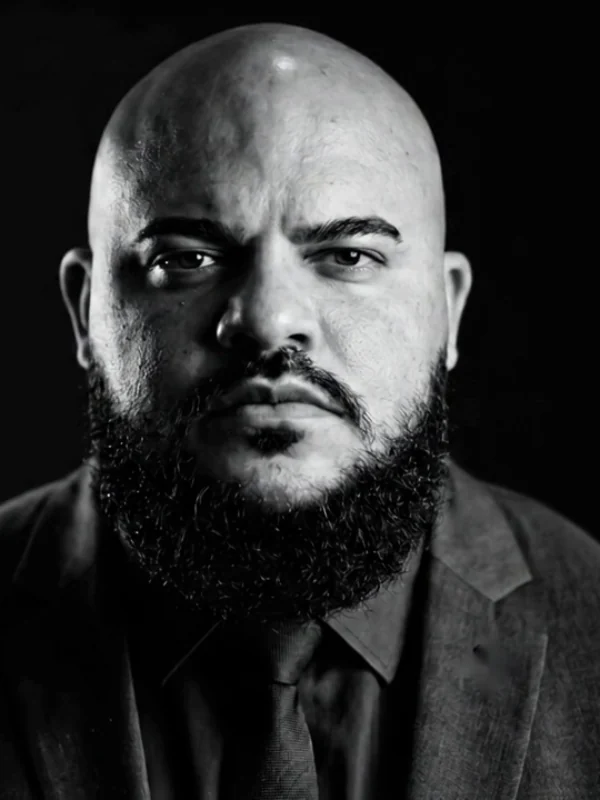
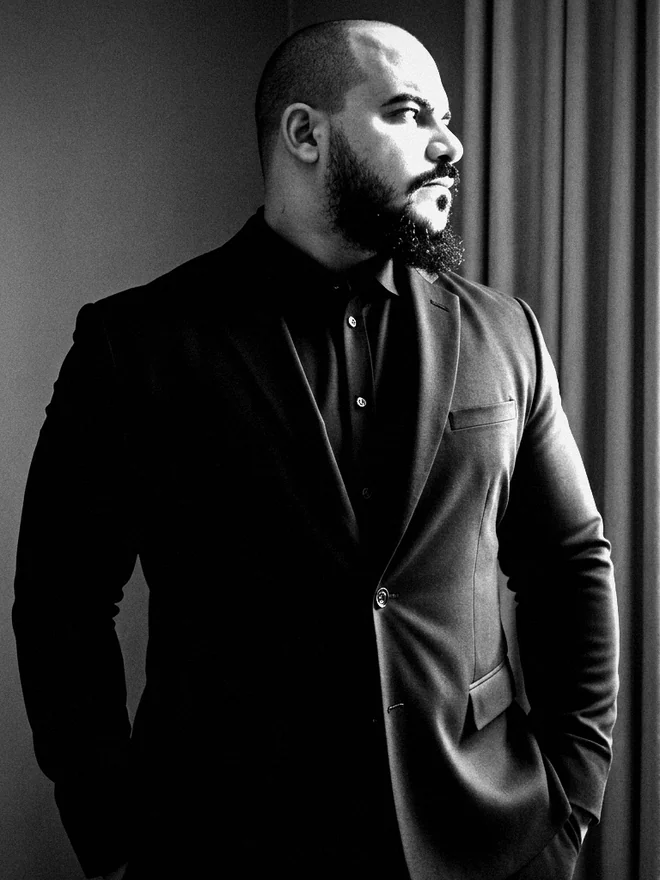
Founder: real photo (suit) + journey mural (6 graded photos, watermark removed, masonry)

diff --git a/app/page.tsx b/app/page.tsx
@@ -776,8 +776,8 @@ export default function Home() {
         background: 'radial-gradient(70% 55% at 80% 20%, rgba(184,152,90,0.06), transparent 70%), var(--ds-bg)',
         borderTop: '1px solid var(--ds-border)',
       }}>
+        <div style={{ maxWidth: '1080px', margin: '0 auto' }}>
         <div style={{
-          maxWidth: '1080px', margin: '0 auto',
           display: 'flex', flexDirection: isMobile ? 'column' : 'row',
           gap: isMobile ? '2.5rem' : '5rem', alignItems: 'flex-start',
         }}>
@@ -808,6 +808,27 @@ export default function Home() {
               <p>Eu trato o seu negócio como se fosse o meu. Não é força de expressão: tenho uma família pra cuidar e construí tudo do nada. Sei exatamente o quanto custa ser visto como menos do que você é.</p>
             </div>
           </div>
+        </div>
+
+        <div className="reveal" style={{ marginTop: isMobile ? '3.5rem' : '5.5rem' }}>
+          <span className="ds-label" style={{ marginBottom: '1.75rem', display: 'block' }}>Da estrada até aqui</span>
+          <div className="mural">
+            {[
+              { img: '/mural-1.webp', cap: 'O sonho que me levou' },
+              { img: '/mural-2.webp', cap: 'Trabalho pesado, lá fora' },
+              { img: '/mural-3.webp', cap: 'Aprendi de tudo' },
+              { img: '/mural-4.webp', cap: 'Anos longe de casa' },
+              { img: '/mural-5.webp', cap: 'O motivo de voltar' },
+              { img: '/mural-6.webp', cap: 'A marca, do zero' },
+            ].map((m) => (
+              <figure key={m.img} className="mural-item">
+                {/* eslint-disable-next-line @next/next/no-img-element */}
+                <img src={m.img} alt="" loading="lazy" />
+                <figcaption>{m.cap}</figcaption>
+              </figure>
+            ))}
+          </div>
+        </div>
         </div>
       </section>
 

diff --git a/app/globals.css b/app/globals.css
@@ -706,6 +706,24 @@ body {
 }
 @media (min-width: 769px) { .founder-photo-wrap { max-width: none; } }
 
+/* ── Mural (jornada do fundador) ── */
+.mural { column-count: 3; column-gap: 14px; }
+.mural-item {
+  break-inside: avoid; margin: 0 0 14px; position: relative;
+  border-radius: 12px; overflow: hidden; border: 1px solid var(--ds-border);
+}
+.mural-item img { width: 100%; display: block; }
+.mural-item figcaption {
+  position: absolute; left: 0; right: 0; bottom: 0; padding: 1.6rem 1rem 0.95rem;
+  font-family: var(--font-dm); font-size: 0.64rem; font-weight: 500;
+  letter-spacing: 0.16em; text-transform: uppercase; color: #fff;
+  background: linear-gradient(to top, rgba(0,0,0,0.9), transparent);
+}
+@media (max-width: 768px) {
+  .mural { column-count: 2; column-gap: 10px; }
+  .mural-item { margin-bottom: 10px; }
+}
+
 /* ── Preloader (cortina de abertura) ── */
 .preloader {
   position: fixed; inset: 0; z-index: 9999; background: #080808;